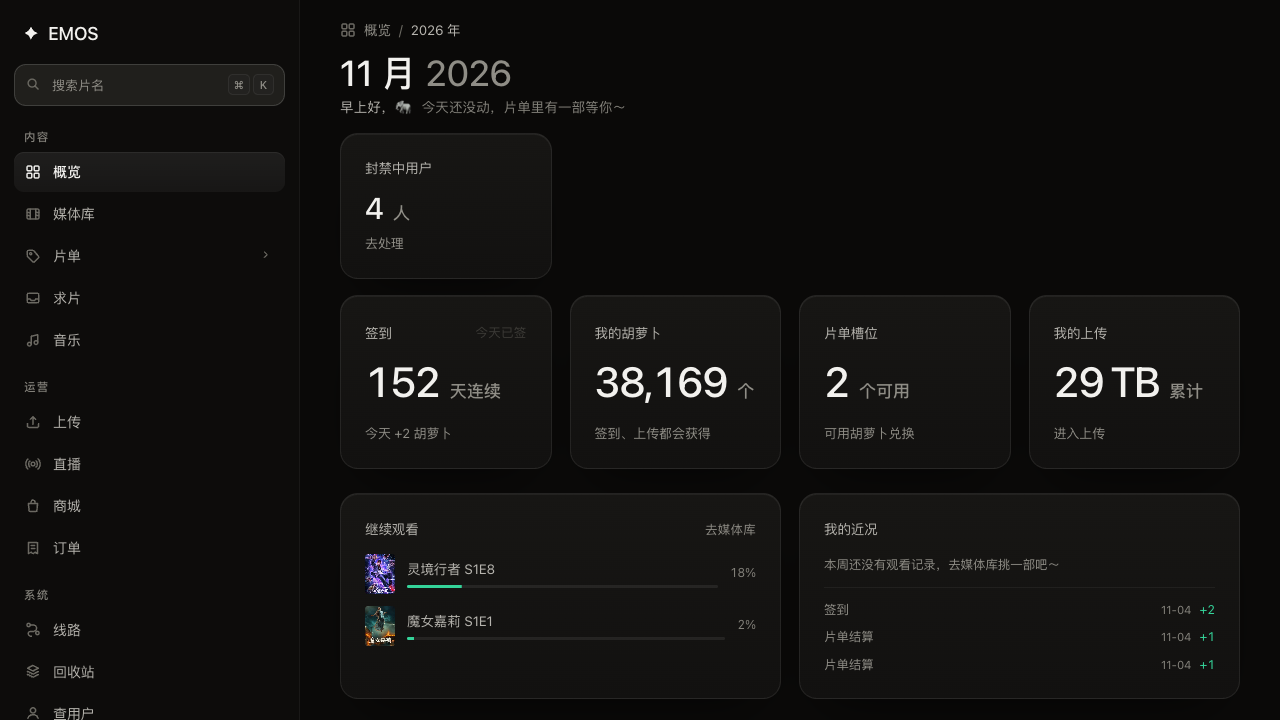
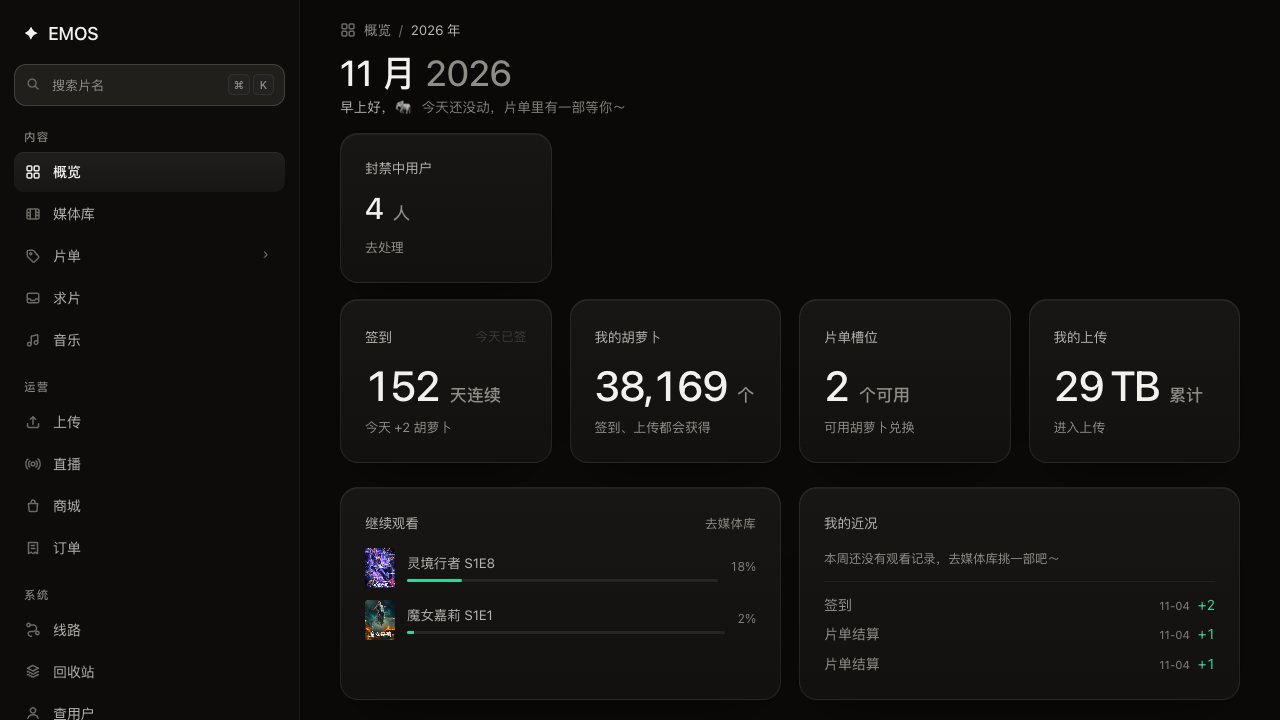
refactor(overview): 内联样式收进工具类
- 新增 .cards--4/--2/--1、.stack/--tight/--loose、.row/.row__main、.ellipsis、
  .tnum-sm/.text-sm/.meta-end/.note-block/.mark-up/.mark-down 等布局与文本工具类
- 概览内联样式 46 → 22 处，栅格与堆叠不再写死在 JSX 里
- 修两处由工具类引入的回归：统计值被误改成 30px（应只作用于待办卡）、
  待办条单项被拉成整行
- 实测：待办卡 30px / 四张统计卡 42px 一致

diff --git a/src/views/OverviewView.tsx b/src/views/OverviewView.tsx
@@ -85,23 +85,23 @@ export function OverviewView() {
       </p>
 
       {todoItems.length > 0 ? (
-        <section className="cards" style={{ gridTemplateColumns: 'repeat(4, minmax(0, 1fr))', marginTop: 16 }}>
+        <section className="cards cards--4 cards--todos" style={{ marginTop: 16 }}>
           {todoItems.map((item) => (
             <Link key={item.label} className="card todo" to={item.to} search={item.search}>
               <p className="stat__label">{item.label}</p>
-              <p className="stat__value" style={{ fontSize: 30 }}>
+              <p className="stat__value">
                 {item.value === null ? '—' : formatThousand(item.value ?? 0)}
                 <small>{item.unit}</small>
               </p>
-              <p className="stat__delta stat__delta--quiet" style={{ marginTop: 10 }}>去处理</p>
+              <p className="stat__delta stat__delta--quiet">去处理</p>
             </Link>
           ))}
         </section>
       ) : null}
 
-      <section className="cards" style={{ gridTemplateColumns: 'repeat(4, minmax(0, 1fr))', marginTop: 16 }}>
+      <section className="cards cards--4" style={{ marginTop: 16 }}>
         <article className="card card--stat">
-          <p className="stat__label" style={{ margin: 0 }}>
+          <p className="stat__label">
             签到
             <button
               className="btn btn--quiet"
@@ -115,7 +115,7 @@ export function OverviewView() {
             {!ready ? '—' : signedToday ? (signInfo?.continuous_days ?? 0) : '—'}
             <small>{!ready ? '读取中' : signedToday ? '天连续' : '还没签到'}</small>
           </p>
-          <p className="stat__delta stat__delta--quiet" style={{ marginTop: 10 }}>
+          <p className="stat__delta stat__delta--quiet">
             {signedToday ? `今天 +${signInfo?.earn_point ?? 0} 胡萝卜` : '签到可得胡萝卜'}
           </p>
         </article>
@@ -128,7 +128,7 @@ export function OverviewView() {
               : '—'}
             <small>个</small>
           </p>
-          <p className="stat__delta stat__delta--quiet" style={{ marginTop: 10 }}>
+          <p className="stat__delta stat__delta--quiet">
             签到、上传都会获得
           </p>
         </article>
@@ -139,7 +139,7 @@ export function OverviewView() {
             {ready ? caps.slotRemaining : '—'}
             <small>个可用</small>
           </p>
-          <p className="stat__delta stat__delta--quiet" style={{ marginTop: 10 }}>
+          <p className="stat__delta stat__delta--quiet">
             可用胡萝卜兑换
           </p>
         </Link>
@@ -150,16 +150,16 @@ export function OverviewView() {
             {!ready ? '—' : caps.sizeUpload > 0 ? formatSize(caps.sizeUpload) : '0 B'}
             <small>累计</small>
           </p>
-          <p className="stat__delta stat__delta--quiet" style={{ marginTop: 10 }}>
+          <p className="stat__delta stat__delta--quiet">
             {!ready ? '读取中' : caps.canUpload ? '进入上传' : '上传权限未开通'}
           </p>
         </Link>
       </section>
 
-      <section className="cards" style={{ gridTemplateColumns: 'repeat(2, minmax(0, 1fr))' }}>
+      <section className="cards cards--2">
         <article className="card">
           <div className="card-head">
-            <p className="stat__label" style={{ margin: 0 }}>继续观看</p>
+            <p className="stat__label">继续观看</p>
             <Link className="btn btn--quiet" to="/library" search={{ page: 1, page_size: 20, q: '', type: '' }}>
               去媒体库
             </Link>
@@ -174,7 +174,7 @@ export function OverviewView() {
             <p className="card-note">还没有未看完的内容，去媒体库挑一部吧～</p>
           ) : null}
 
-          <ul style={{ display: 'grid', gap: 12 }}>
+          <ul className="stack">
             {(watching.data ?? []).map((row, index) => {
               const played = Number(row.play_seconds ?? 0)
               const total = Number(row.media_seconds ?? 0)
@@ -185,15 +185,15 @@ export function OverviewView() {
                     to="/media/$videoId"
                     params={{ videoId: String(row.video_id ?? 0) }}
                     search={{ season: Number(row.season_number ?? 1), episode: Number(row.episode_number ?? 1) }}
-                    style={{ display: 'flex', alignItems: 'center', gap: 12 }}
+                    className="row"
                   >
                   {row.video_image_poster ? (
                     <img className="poster-img" src={String(row.video_image_poster)} alt="" loading="lazy" />
                   ) : (
                     <span className="thumb">{String(row.video_title ?? '?').slice(0, 1)}</span>
                   )}
-                  <span style={{ display: 'grid', gap: 6, flex: 1, minWidth: 0 }}>
-                    <span style={{ color: 'var(--fg-2)', fontSize: 13.5, overflow: 'hidden', textOverflow: 'ellipsis', whiteSpace: 'nowrap' }}>
+                  <span className="row__main">
+                    <span className="text-body ellipsis">
                       {String(row.video_title ?? '—')}
                       {row.season_number ? ` S${row.season_number}` : ''}
                       {row.episode_number ? `E${row.episode_number}` : ''}
@@ -215,7 +215,7 @@ export function OverviewView() {
 
         <article className="card">
           <div className="card-head">
-            <p className="stat__label" style={{ margin: 0 }}>我的近况</p>
+            <p className="stat__label">我的近况</p>
           </div>
 
           <div className="card-body">
@@ -223,7 +223,7 @@ export function OverviewView() {
           {stats.error ? <p className="card-note">本周记录取不到，稍后再看～</p> : null}
 
           {!stats.data && !stats.error ? (
-            <div style={{ display: 'grid', gap: 10 }}>
+            <div className="stack--loose">
               <div className="skeleton" style={{ height: 40 }} />
               <div className="skeleton" style={{ height: 12, width: '60%' }} />
             </div>
@@ -264,9 +264,9 @@ export function OverviewView() {
           {carrotHistory.data && carrotHistory.data.items.length > 0 ? (
             <ul style={{ display: 'grid', gap: 8, marginTop: 'var(--stack)', paddingTop: 'var(--stack)', borderTop: '1px solid var(--line-soft)' }}>
               {carrotHistory.data.items.slice(0, 3).map((row, index) => (
-                <li key={index} style={{ display: 'flex', alignItems: 'baseline', gap: 8, fontSize: 12.5 }}>
+                <li key={index} className="row--baseline" style={{ display: 'flex' }}>
                   <span style={{ color: 'var(--fg-3)' }}>{row.trigger_type_string || row.trigger_type}</span>
-                  <span className="muted" style={{ marginLeft: 'auto', fontSize: 11.5 }}>
+                  <span className="muted meta-end">
                     {String(row.created_at).slice(5, 10)}
                   </span>
                   <span className="tnum" style={{ color: row.point >= 0 ? 'var(--c-green)' : 'var(--c-red)' }}>
@@ -280,10 +280,10 @@ export function OverviewView() {
         </article>
       </section>
 
-      <section className="cards" style={{ gridTemplateColumns: 'repeat(2, minmax(0, 1fr))' }}>
+      <section className="cards cards--2">
         <article className="card">
           <div className="card-head">
-            <p className="stat__label" style={{ margin: 0 }}>我的片单</p>
+            <p className="stat__label">我的片单</p>
             <Link className="btn btn--quiet" to="/watchlists" search={{ page: 1, page_size: 20, scope: 'self', type: 'video' }}>
               全部
             </Link>
@@ -291,27 +291,27 @@ export function OverviewView() {
 
           {myWatches.isLoading ? <div className="skeleton" style={{ height: 72, marginTop: 12 }} /> : null}
           {myWatches.error ? (
-            <p className="state__hint" style={{ textAlign: 'left', padding: '14px 0 0' }}>
+            <p className="state__hint note-block">
               片单暂时取不到，稍后再看～
             </p>
           ) : null}
 
           {myWatches.data && myWatches.data.length === 0 ? (
-            <p className="state__hint" style={{ textAlign: 'left', padding: '14px 0 0' }}>
+            <p className="state__hint note-block">
               还没有自己的片单，建一个把想看的攒起来～
             </p>
           ) : null}
 
-          <ul style={{ display: 'grid', gap: 10, marginTop: 12 }}>
+          <ul className="stack--loose stack--top">
             {(myWatches.data ?? []).map((watch) => (
               <li key={watch.id}>
                 <Link
                   to="/watchlists/$watchId"
                   params={{ watchId: String(watch.id) }}
                   search={{ page: 1, page_size: 20, q: '' }}
-                  style={{ display: 'flex', alignItems: 'center', gap: 10, fontSize: 13 }}
+                  className="row text-sm"
                 >
-                  <span style={{ color: 'var(--fg-2)', flex: 1, minWidth: 0, overflow: 'hidden', textOverflow: 'ellipsis', whiteSpace: 'nowrap' }}>
+                  <span className="text-body ellipsis" style={{ flex: 1 }}>
                     {watch.name}
                   </span>
                   <span className="muted tnum" style={{ fontSize: 11.5 }}>{watch.video_count} 部</span>
@@ -326,9 +326,9 @@ export function OverviewView() {
 
         <article className="card">
           <div className="card-head">
-            <p className="stat__label" style={{ margin: 0 }}>快捷入口</p>
+            <p className="stat__label">快捷入口</p>
           </div>
-          <div className="card-body" style={{ display: 'grid', gridTemplateColumns: 'repeat(2, minmax(0, 1fr))', gap: 10 }}>
+          <div className="card-body stack--loose" style={{ gridTemplateColumns: 'repeat(2, minmax(0, 1fr))' }}>
             {[
               { label: '上传影片', to: '/upload' as const, note: caps.canUpload ? '入库到媒体库' : '需先开通权限' },
               { label: '发起求片', to: '/seek' as const, note: '缺什么求什么' },
@@ -336,8 +336,8 @@ export function OverviewView() {
               { label: '账号设置', to: '/account' as const, note: '密码与邀请' },
             ].map((item) => (
               <Link key={item.label} className="quick" to={item.to}>
-                <span style={{ color: 'var(--fg)', fontSize: 13.5 }}>{item.label}</span>
-                <span className="muted" style={{ fontSize: 11.5 }}>{item.note}</span>
+                <span className="text-sm" style={{ color: 'var(--fg)' }}>{item.label}</span>
+                <span className="muted tnum-sm">{item.note}</span>
               </Link>
             ))}
           </div>

diff --git a/src/styles/components.css b/src/styles/components.css
@@ -1149,3 +1149,33 @@ th.num .th-sort { flex-direction: row-reverse; }
   gap: 12px;
   min-height: 24px;
 }
+
+/* ---- 布局工具类：替代视图里的内联栅格与堆叠 ---- */
+.cards--4 { grid-template-columns: repeat(4, minmax(0, 1fr)); }
+.cards--2 { grid-template-columns: repeat(2, minmax(0, 1fr)); }
+.cards--1 { grid-template-columns: minmax(0, 1fr); }
+
+.stack { display: grid; gap: var(--stack); }
+.stack--tight { display: grid; gap: 8px; }
+.stack--loose { display: grid; gap: 10px; }
+.stack--top { margin-top: var(--stack); }
+
+.row { display: flex; align-items: center; gap: 12px; }
+.row--baseline { align-items: baseline; gap: 8px; }
+.row__main { display: grid; gap: 6px; flex: 1; min-width: 0; }
+
+.ellipsis { overflow: hidden; text-overflow: ellipsis; white-space: nowrap; }
+.tnum-sm { font-size: 11.5px; }
+.text-sm { font-size: 13px; }
+.text-quiet { color: var(--fg-3); }
+.text-body { color: var(--fg-2); font-size: 13.5px; }
+.meta-end { margin-left: auto; font-size: 11.5px; }
+.note-block { text-align: left; padding: 14px 0 0; }
+.mark-up { color: var(--c-green); }
+.mark-down { color: var(--c-red); }
+
+.card-head .stat__label,
+.card--stat > .stat__label { margin: 0; }
+.card--stat > .stat__delta { margin-top: 0; }
+
+.cards--todos .stat__value { font-size: 30px; }
